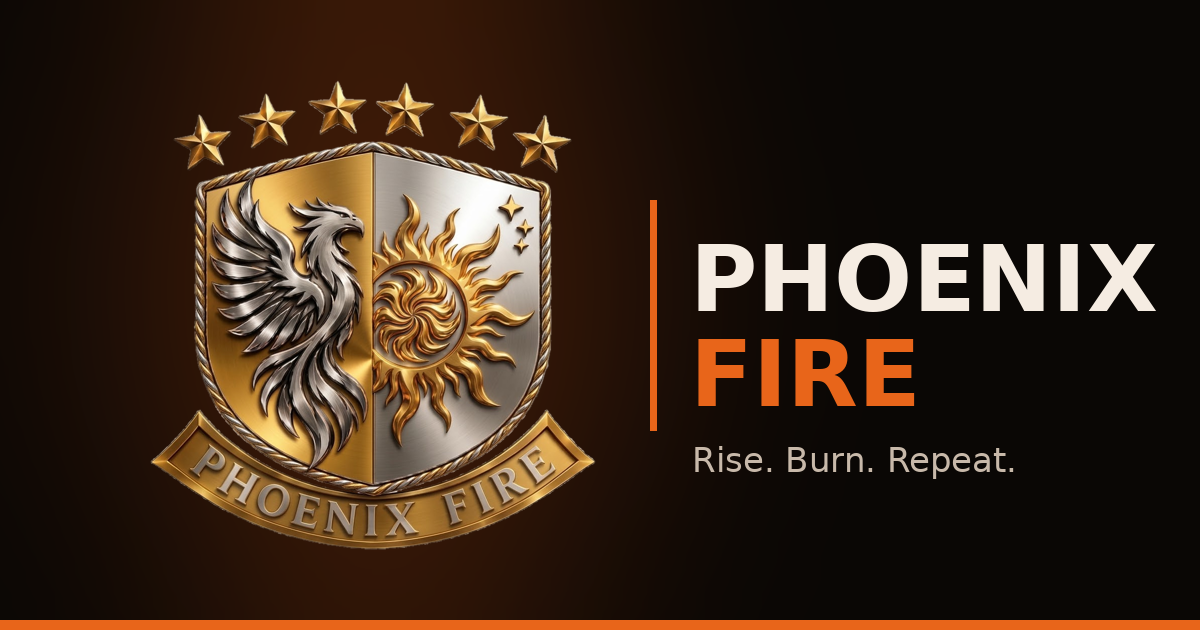
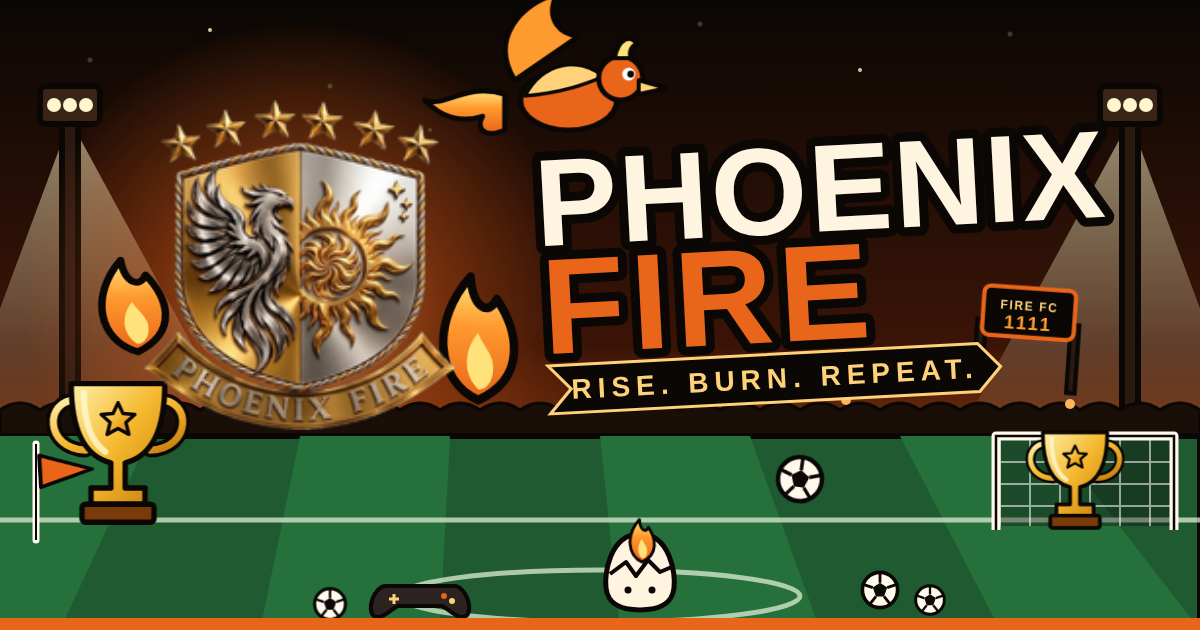
site: new illustrated cartoon share image (collage with trophies, balls, pitch, easter eggs) plus animated SVG

diff --git a/PLANNING/LAUNCH.md b/PLANNING/LAUNCH.md
@@ -30,7 +30,7 @@ from the build timestamps that already differed between any two builds (`api/ran
 | # | Check | State 2026-11-10 | Who |
 |---|---|---|---|
 | 1 | **Founded date (B2).** `config.json` `brand.founded` is blank on purpose. Never guess it. | **Fixed 2026-11-10:** the mock seed no longer sets `founded`; `tests/sharemeta.test.mjs` fails if "Est." shows while `brand.founded` is blank. Was: **Problem found:** the built `squad.html` currently shows "Est. 2019" because `phoenix/gen-data.mjs` seeds the mock config with `founded: '2019'`, and the legacy member portal reads it. That is an invented fact on a public-facing page. Fix before launch: remove `founded` from the mock in `phoenix/gen-data.mjs` (or use the real date once known) and add a test. Not changed now because it would alter the built output while closed. | **owner** gives the date; Claude fixes the mock |
-| 2 | **OG / share image.** Link previews (Discord, X, WhatsApp) need `og:title`, `og:description`, `og:image`, `og:url`, `twitter:card`. | **Built 2026-11-10** (owner still approves the image `phoenix/overlay/share.png`; link-preview check pending): every indexable page gets description, canonical, `og:*`, `twitter:*` from `siteUrl`; test in `tests/sharemeta.test.mjs`. Was: **Missing.** The built pages carry no Open Graph or description meta; only the legacy `squad.html` has some. Needed: a 1200x630 Phoenix share image (crest on `#0a0705`, ember accent; `crest-lg.png` exists as source art), per-page title and description, plus `canonical`. Check afterwards with a link-preview tool and by pasting the home page in a Discord test channel. Branding rule: no NOREX name, colour or crest; add a test on the built head. | Claude builds, **owner** approves the image |
+| 2 | **OG / share image.** Link previews (Discord, X, WhatsApp) need `og:title`, `og:description`, `og:image`, `og:url`, `twitter:card`. | **Built 2026-11-10** (redrawn 2026-11-13 as an illustrated cartoon collage, source `phoenix/share-art/share.svg`, rebuild with `node phoenix/share-art/make.mjs`; animated copy `share-animated.svg`; link-preview check pending): every indexable page gets description, canonical, `og:*`, `twitter:*` from `siteUrl`; test in `tests/sharemeta.test.mjs`. Was: **Missing.** The built pages carry no Open Graph or description meta; only the legacy `squad.html` has some. Needed: a 1200x630 Phoenix share image (crest on `#0a0705`, ember accent; `crest-lg.png` exists as source art), per-page title and description, plus `canonical`. Check afterwards with a link-preview tool and by pasting the home page in a Discord test channel. Branding rule: no NOREX name, colour or crest; add a test on the built head. | Claude builds, **owner** approves the image |
 | 3 | **Worker host (B1).** The site calls `phoenix-bot.norexunited.workers.dev`. Fine functionally; decide first so the host is not changed right after launch. | Open. See `PLANNING/WORKER-HOST.md`. | **owner** |
 | 4 | **Club docs release (B6).** Migration 0053 seed. | **Complete 2026-11-13.** Not a launch blocker. The owner releases the docs from the site whenever they choose. | – |
 | 5 | **Discord apps.** Matchday and Rush apps (B3) created and switched on, or knowingly left off. | **Done 2026-11-10** (`3134c06`); both endpoints answer. Owner may still want a member announcement. | **owner** |
